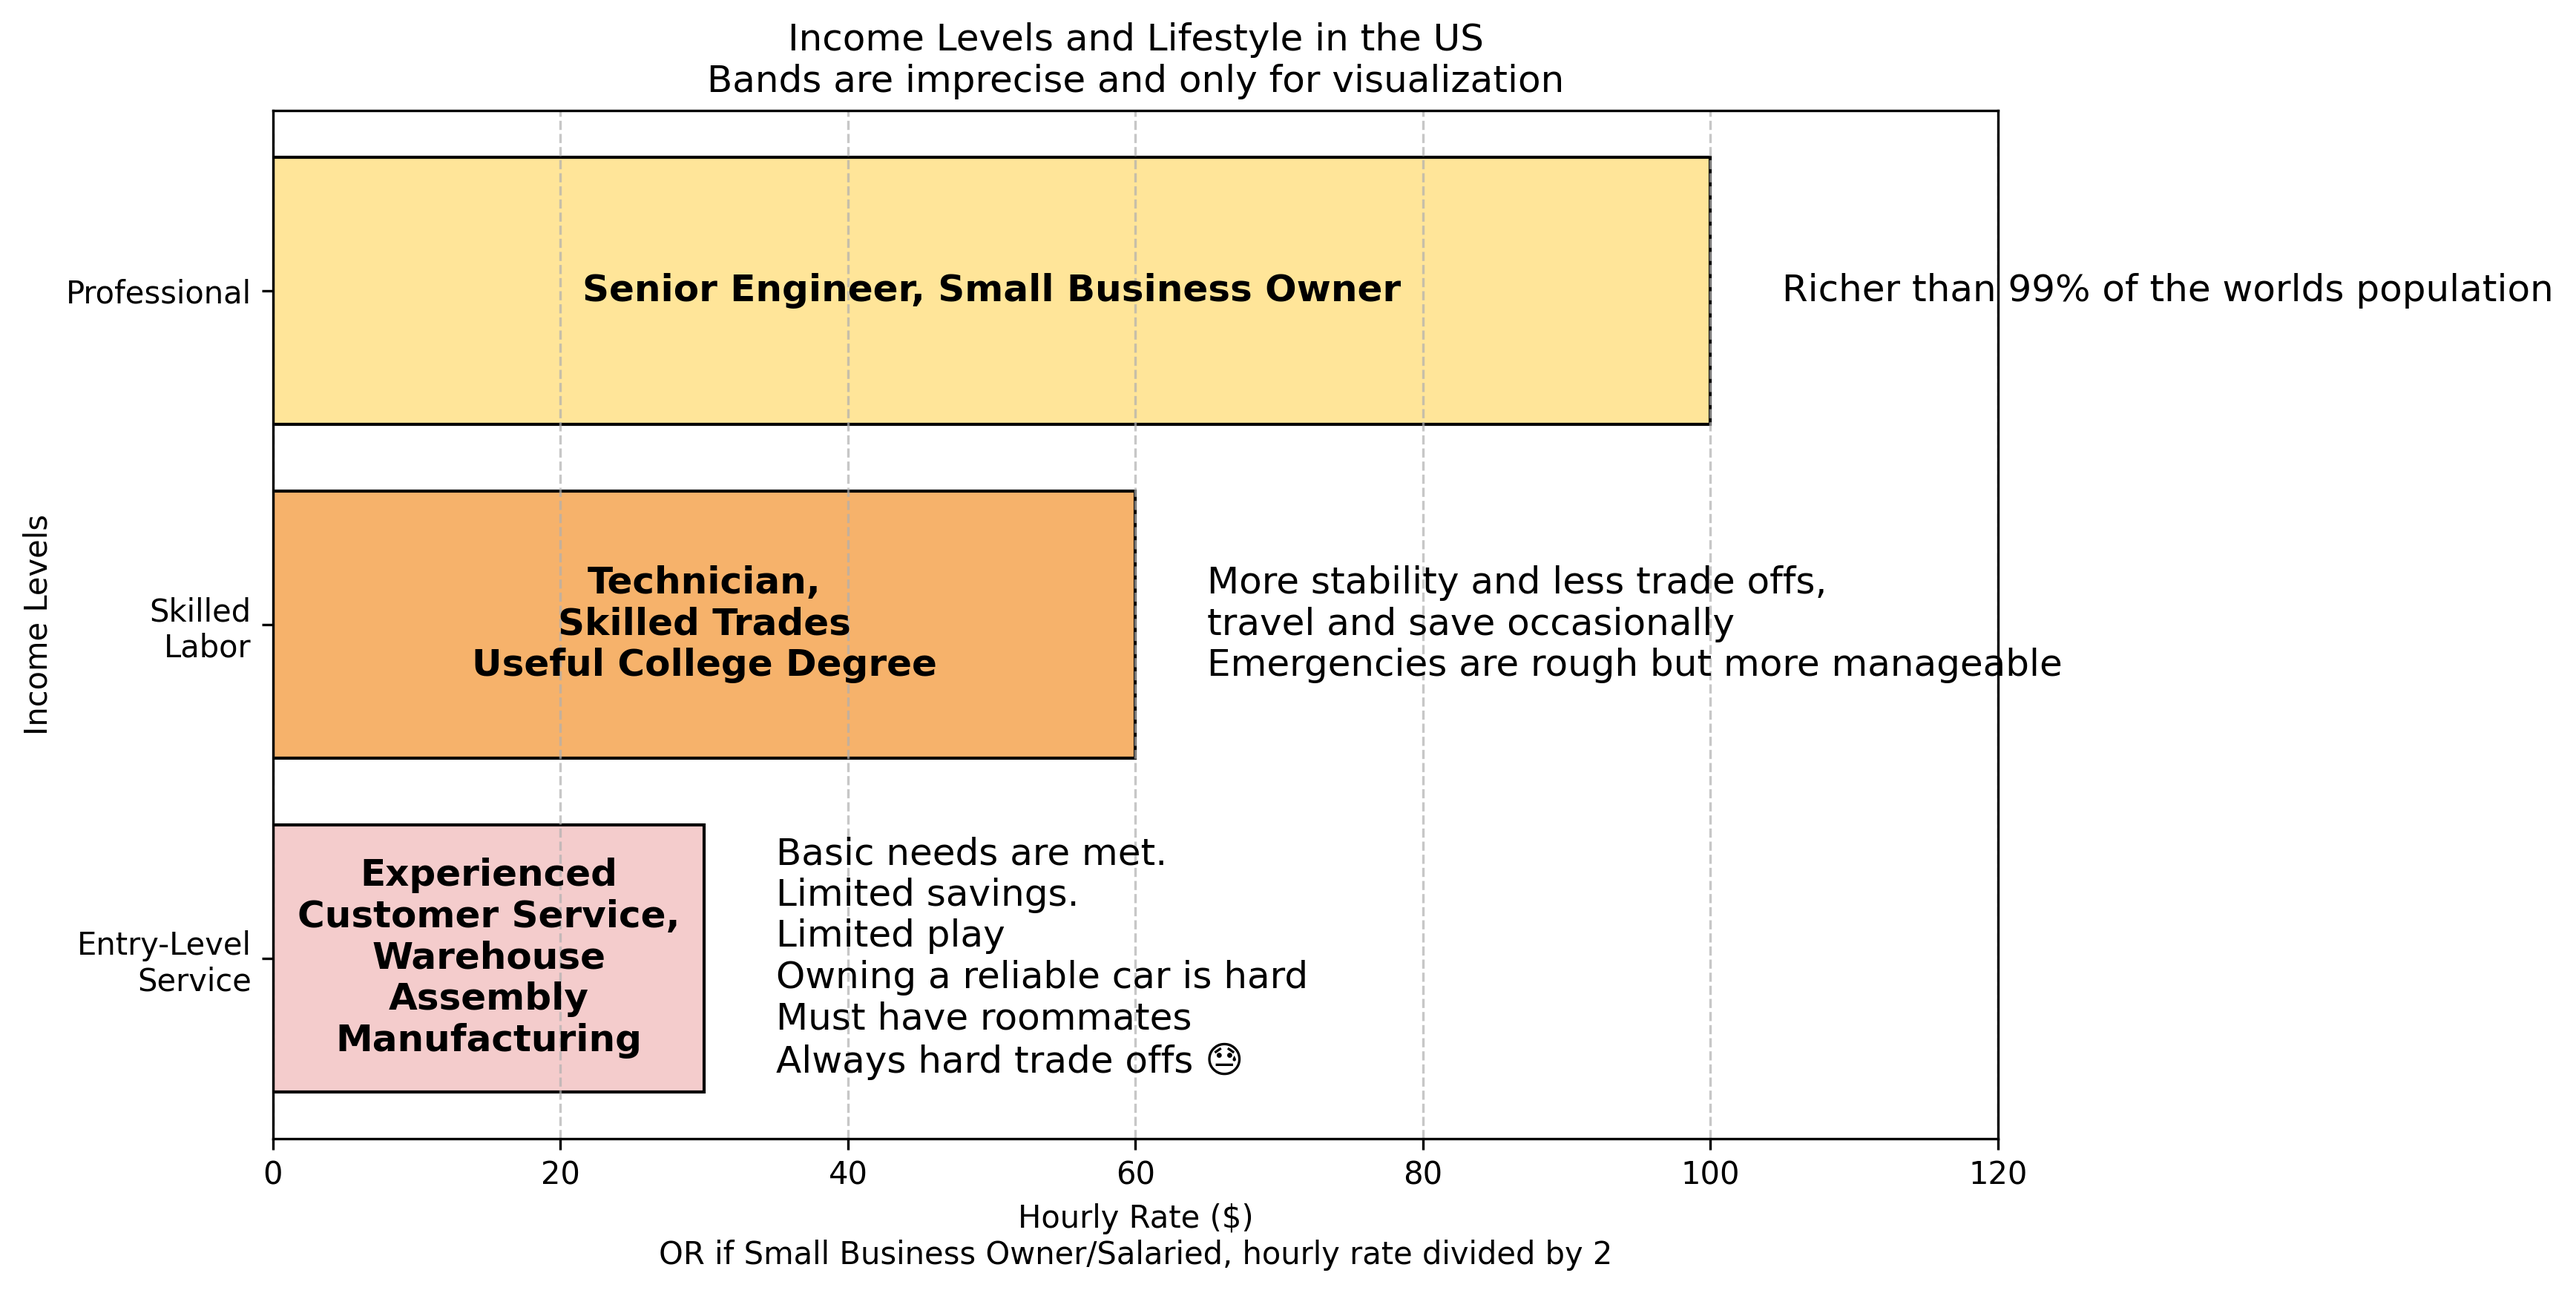
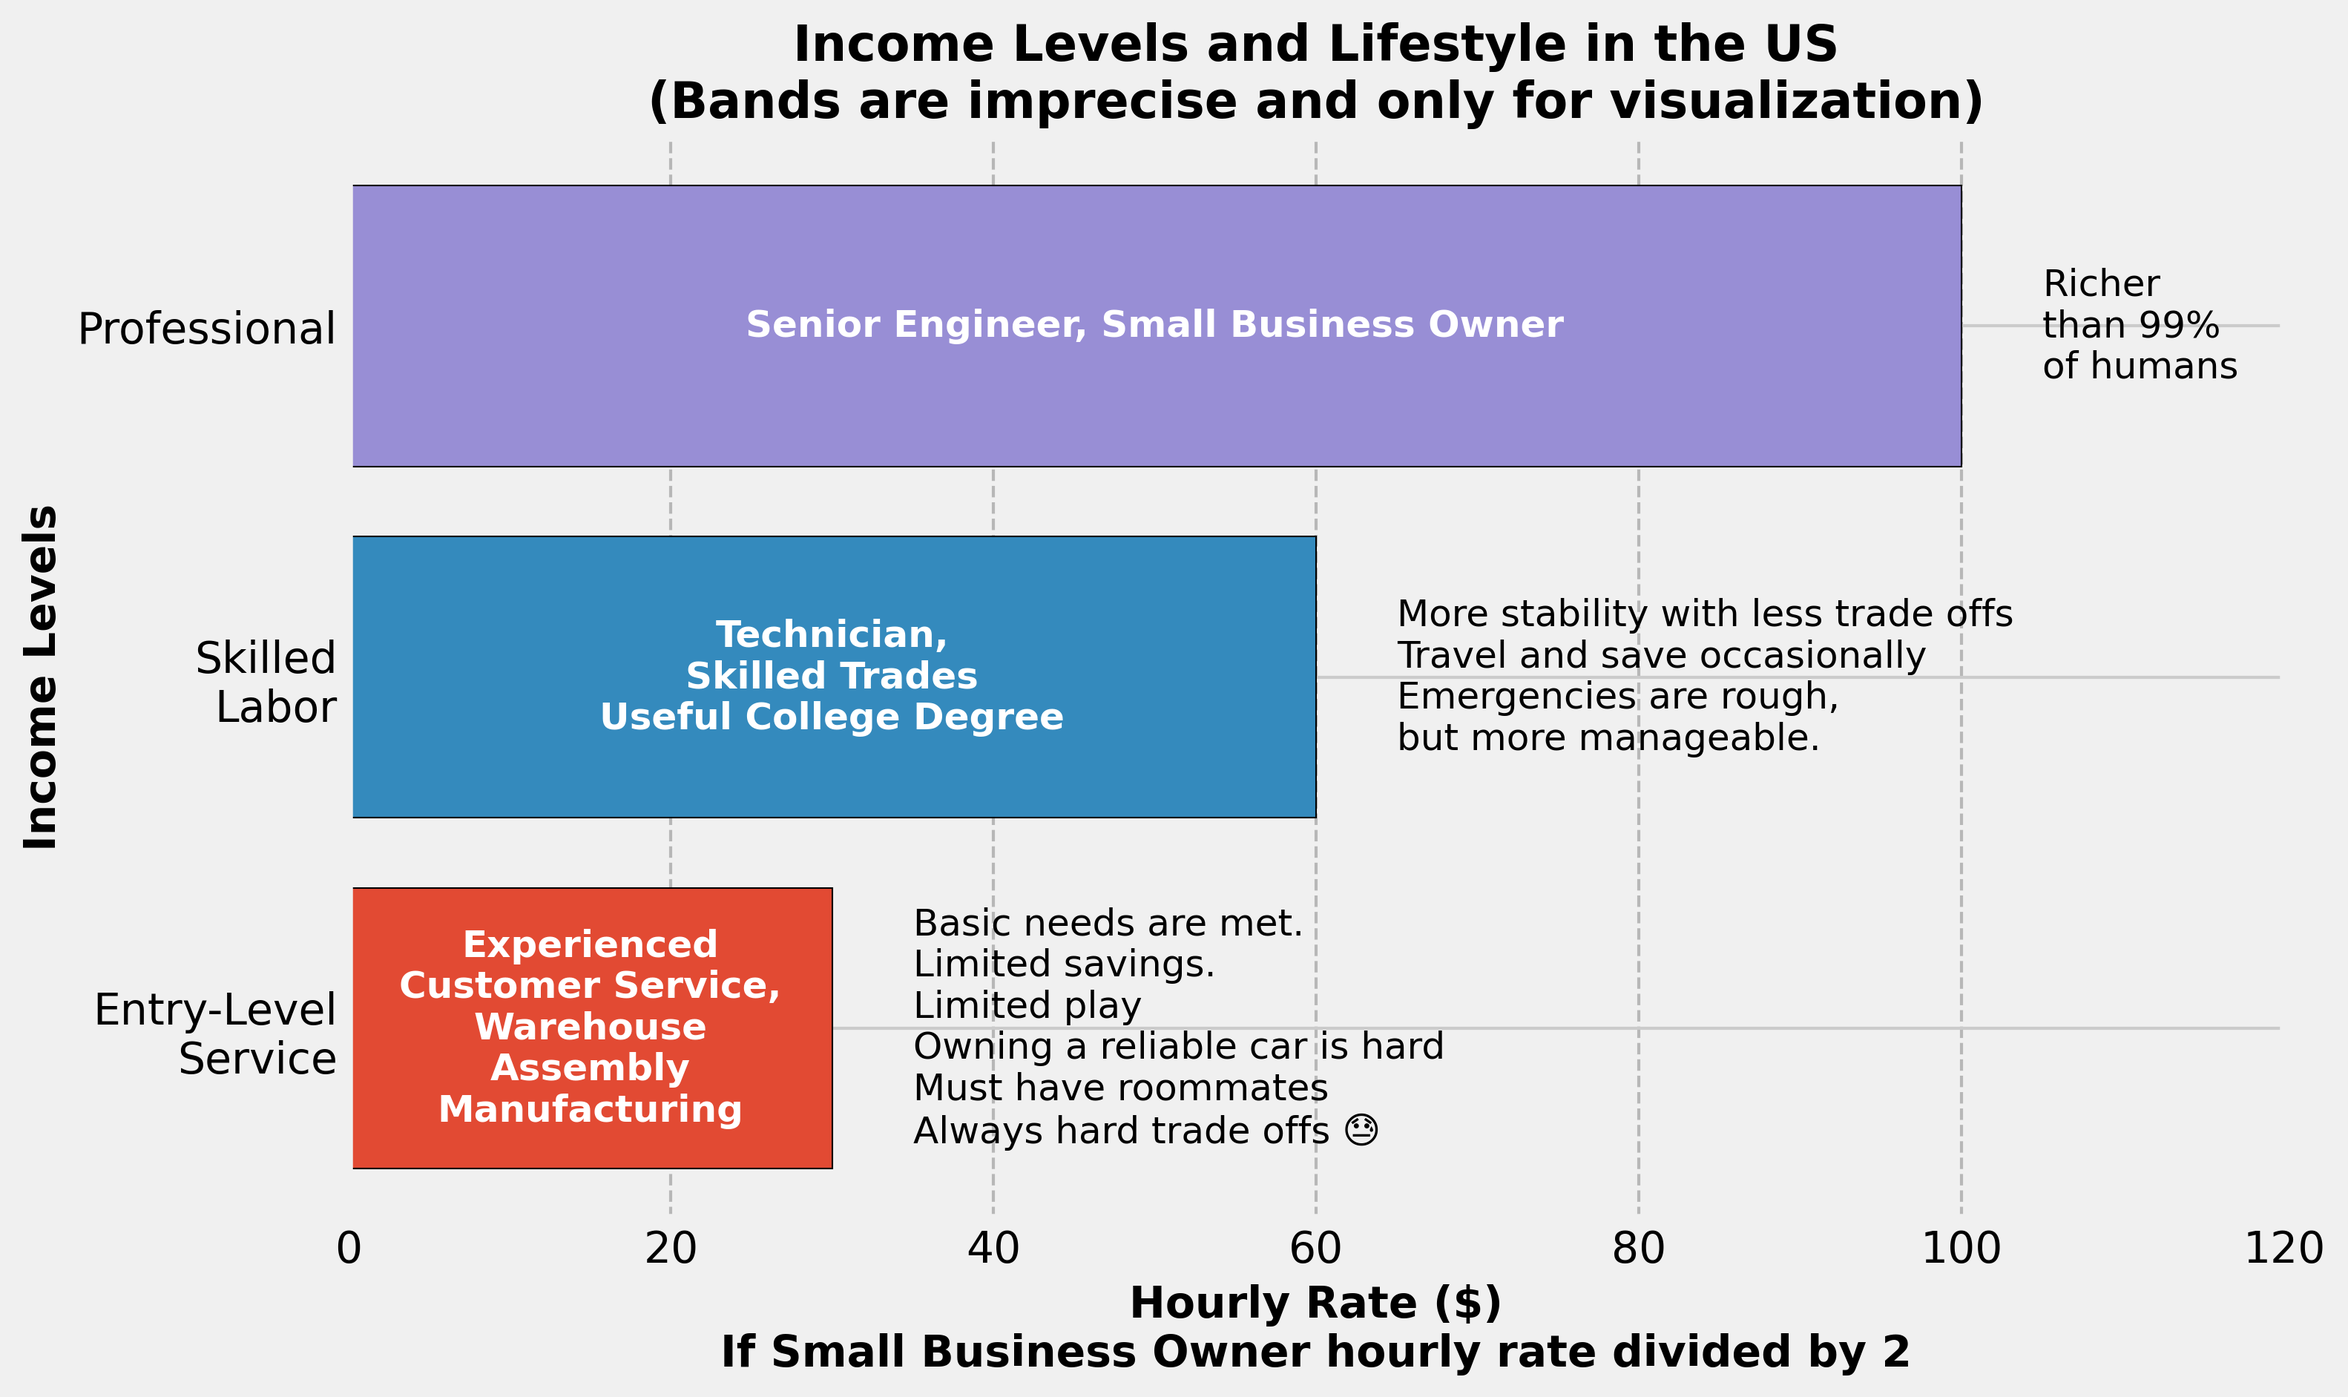
📊 Update 📈 2025-02-09 13:18:53 ✏

diff --git a/index.html b/index.html
@@ -1,47 +1,47 @@
 <!DOCTYPE html>
-<html lang="en">
-<head>
-    <meta charset="UTF-8">
-    <meta name="viewport" content="width=device-width, initial-scale=1.0">
-    <title>US Income Levels and Lifestyle Choices 2025</title>
-    <style>
-        body {
-            font-family: Arial, sans-serif;
-            text-align: center;
-            padding: 20px;
-            background-color: #f4f4f4;
-        }
-        img {
-            max-width: 100%;
-            height: auto;
-            border: 1px solid #ddd;
-            border-radius: 8px;
-            padding: 5px;
-            background: white;
-        }
-        .container {
-            max-width: 800px;
-            margin: auto;
-            background: white;
-            padding: 20px;
-            box-shadow: 0 0 10px rgba(0, 0, 0, 0.1);
-            border-radius: 8px;
-        }
-    </style>
-</head>
-<body>
-    <div class="container">
-        <h1>US Income Levels and Lifestyle Choices 2025</h1>
-        <img src="income_chart.png" alt="Income Chart">
-        <p>Disclaimer:
+    <html lang="en">
+    <head>
+        <meta charset="UTF-8">
+        <meta name="viewport" content="width=device-width, initial-scale=1.0">
+        <title>US Income Levels and Lifestyle Choices 2025</title>
+        <style>
+            body {
+                font-family: Arial, sans-serif;
+                text-align: center;
+                padding: 20px;
+                background-color: #f4f4f4;
+            }
+            img {
+                max-width: 100%;
+                height: auto;
+                border: 1px solid #ddd;
+                border-radius: 8px;
+                padding: 5px;
+                background: white;
+            }
+            .container {
+                max-width: 800px;
+                margin: auto;
+                background: white;
+                padding: 20px;
+                box-shadow: 0 0 10px rgba(0, 0, 0, 0.1);
+                border-radius: 8px;
+            }
+        </style>
+    </head>
+    <body>
+        <div class="container">
+            <h1>US Income Levels and Lifestyle Choices 2025</h1>
+            <img src="income_chart.png" alt="Income Chart">
+            <p>Disclaimer:
 This is a "Dad" picture, to help folks visualize the impact of income on lifestyle choices.
 This chart is a broad generalization and does not account for the many variables that can affect lifestyle choices, such as;
 location, family/family of origin, dependents, personal preferences, culture, religion, and economic conditions.
 </p>
-    </div>
-    <div class="container">
-    <h2>Other tools</h2>
-    <a href="https://www.givingwhatwecan.org/how-rich-am-i?income=100000&countryCode=USA&numAdults=1&numChildren=0" target="_blank" rel="noopener noreferrer">How Rich am I</a>
-    </div>
-</body>
-</html>
+        </div>
+        <div class="container">
+        <h2>Other tools</h2>
+        <a href="https://www.givingwhatwecan.org/how-rich-am-i?income=100000&countryCode=USA&numAdults=1&numChildren=0" target="_blank" rel="noopener noreferrer">How Rich am I</a>
+        </div>
+    </body>
+    </html>

diff --git a/zchart.py b/zchart.py
@@ -6,139 +6,163 @@
 # ]
 # ///
 
+from datetime import datetime
 import matplotlib.pyplot as plt
 import numpy as np
 
-# Update income bands to remove the highest level
-income_bands = [
-    (30, "Entry-Level\nService"),
-    (60, "Skilled\nLabor"),
-    (100, "Professional"),
-]
-
-# Update job examples and lifestyle descriptions accordingly
-job_labels = [
-    "Experienced\nCustomer Service,\nWarehouse\nAssembly\nManufacturing",
-    "Technician,\nSkilled Trades\nUseful College Degree",
-    "Senior Engineer, Small Business Owner",
-]
-
-lifestyle_labels = [
-    "Basic needs are met.\nLimited savings.\nLimited play\nOwning a reliable car is hard\nMust have roommates\nAlways hard trade offs 😓",
-    "More stability and less trade offs,\ntravel and save occasionally\nEmergencies are rough but more manageable",
-    "Richer than 99% of the worlds population"
-]
-
-# Adjust colors
-colors = ["#f4cccc", "#f6b26b", "#ffe599", "#6fa8dc"]
-
-fig, ax = plt.subplots(figsize=(10, 6))
-
-# Create bars for income bands
-y_positions = np.arange(len(income_bands))
-hourly_rates = [rate for rate, _ in income_bands]
-
-bars = ax.barh(y_positions, hourly_rates, color=colors, edgecolor="black")
-
-# Add job labels inside bars (adjust for better fit)
-for i, bar in enumerate(bars):
-    ax.text(
-        bar.get_width() * 0.5,
-        bar.get_y() + bar.get_height() / 2,
-        job_labels[i],
-        va="center",
-        ha="center",
-        fontsize=12,
-        color="black",
-        fontweight="bold",
-    )
-
-# Add lifestyle labels outside bars
-for i, (rate, label) in enumerate(income_bands):
-    ax.text(
-        rate + 5,
-        y_positions[i],
-        lifestyle_labels[i],
-        va="center",
-        ha="left",
-        fontsize=12,
-        color="black",
-    )
-
-# Labels and title
-ax.set_xlabel("Hourly Rate ($)\nOR if Small Business Owner/Salaried, hourly rate divided by 2")
-ax.set_ylabel("Income Levels")
-ax.set_title("Income Levels and Lifestyle in the US\nBands are imprecise and only for visualization")
-ax.set_yticks(y_positions)
-ax.set_yticklabels([label for _, label in income_bands])
-ax.set_xlim(0, 120)  # Adjust x-axis limit for better label fit
-ax.grid(axis="x", linestyle="--", alpha=0.7)
-
-# Save the figure
-plt.savefig("income_chart.png", dpi=300, bbox_inches="tight")
 
 disclaimer = """Disclaimer:
 This is a "Dad" picture, to help folks visualize the impact of income on lifestyle choices.
 This chart is a broad generalization and does not account for the many variables that can affect lifestyle choices, such as;
 location, family/family of origin, dependents, personal preferences, culture, religion, and economic conditions.
 """
-header = "US Income Levels and Lifestyle Choices 2025"
+year = datetime.now().year
+header = f"US Income Levels and Lifestyle Choices {year}"
 
-# Create README.md with embedded image
-with open("README.md", "w") as f:
-    f.write(f"""# {header}\n![Income Chart](income_chart.png)\n<https://y3rsh.github.io/income-chart/>\n{disclaimer}
-## Other tools
-- [How Rich am I](https://www.givingwhatwecan.org/how-rich-am-i?income=100000&countryCode=USA&numAdults=1&numChildren=0)
-""")
+def gen_image():
+    # Apply fivethirtyeight style
+    plt.style.use("fivethirtyeight")
 
-# Create an HTML page with embedded image
-html_content = f"""<!DOCTYPE html>
-<html lang=\"en\">
-<head>
-    <meta charset=\"UTF-8\">
-    <meta name=\"viewport\" content=\"width=device-width, initial-scale=1.0\">
-    <title>{header}</title>
-    <style>
-        body {{
-            font-family: Arial, sans-serif;
-            text-align: center;
-            padding: 20px;
-            background-color: #f4f4f4;
-        }}
-        img {{
-            max-width: 100%;
-            height: auto;
-            border: 1px solid #ddd;
-            border-radius: 8px;
-            padding: 5px;
-            background: white;
-        }}
-        .container {{
-            max-width: 800px;
-            margin: auto;
-            background: white;
-            padding: 20px;
-            box-shadow: 0 0 10px rgba(0, 0, 0, 0.1);
-            border-radius: 8px;
-        }}
-    </style>
-</head>
-<body>
-    <div class=\"container\">
-        <h1>{header}</h1>
-        <img src=\"income_chart.png\" alt=\"Income Chart\">
-        <p>{disclaimer}</p>
-    </div>
-    <div class=\"container\">
-    <h2>Other tools</h2>
-    <a href="https://www.givingwhatwecan.org/how-rich-am-i?income=100000&countryCode=USA&numAdults=1&numChildren=0" target="_blank" rel="noopener noreferrer">How Rich am I</a>
-    </div>
-</body>
-</html>"""
+    income_bands = [
+        (30, "Entry-Level\nService"),
+        (60, "Skilled\nLabor"),
+        (100, "Professional"),
+    ]
+
+    job_labels = [
+        "Experienced\nCustomer Service,\nWarehouse\nAssembly\nManufacturing",
+        "Technician,\nSkilled Trades\nUseful College Degree",
+        "Senior Engineer, Small Business Owner",
+    ]
+
+    lifestyle_labels = [
+        "Basic needs are met.\nLimited savings.\nLimited play\nOwning a reliable car is hard\nMust have roommates\nAlways hard trade offs 😓",
+        "More stability with less trade offs\nTravel and save occasionally\nEmergencies are rough,\nbut more manageable.",
+        "Richer\nthan 99%\nof humans",
+    ]
+
+    # Adjust colors to match fivethirtyeight aesthetic
+    colors = ["#E24A33", "#348ABD", "#988ED5"]  # Muted red, blue, and purple
+
+    fig, ax = plt.subplots(figsize=(10, 6))
+
+    # Create bars for income bands
+    y_positions = np.arange(len(income_bands))
+    hourly_rates = [rate for rate, _ in income_bands]
+
+    bars = ax.barh(y_positions, hourly_rates, color=colors, edgecolor="black")
+
+    # Add job labels inside bars (adjusted for better readability)
+    for i, bar in enumerate(bars):
+        ax.text(
+            bar.get_width() * 0.5,
+            bar.get_y() + bar.get_height() / 2,
+            job_labels[i],
+            va="center",
+            ha="center",
+            fontsize=12,
+            color="white",
+            fontweight="bold",
+        )
+
+    # Add lifestyle labels to the right of the bars
+    for i, (rate, label) in enumerate(income_bands):
+        ax.text(
+            rate + 5,  # Offset for better readability
+            y_positions[i],
+            lifestyle_labels[i],
+            va="center",
+            ha="left",
+            fontsize=12,
+            color="black",
+        )
+
+    # Set labels and title
+    ax.set_xlabel(
+        "Hourly Rate ($)\nIf Small Business Owner hourly rate divided by 2",
+        fontsize=14,
+        fontweight="bold",
+    )
+    ax.set_ylabel("Income Levels", fontsize=14, fontweight="bold")
+    ax.set_title(
+        "Income Levels and Lifestyle in the US\n(Bands are imprecise and only for visualization)",
+        fontsize=16,
+        fontweight="bold",
+    )
+
+    # Set y-axis labels
+    ax.set_yticks(y_positions)
+    ax.set_yticklabels([label for _, label in income_bands])
+
+    # Set x-axis limits for better spacing
+    ax.set_xlim(0, 120)
+
+    # Improve grid styling
+    ax.grid(axis="x", linestyle="--", alpha=0.5, color="gray")
+
+    return plt
+
+def gen_readme():
+    with open("README.md", "w") as f:
+        f.write(
+            f"""# {header}\n![Income Chart](income_chart.png)\n<https://y3rsh.github.io/income-chart/>\n{disclaimer}
+    ## Other tools
+    - [How Rich am I](https://www.givingwhatwecan.org/how-rich-am-i?income=100000&countryCode=USA&numAdults=1&numChildren=0)
+    """
+        )
+    print("README file generated successfully.")
+
+def gen_html():
+    html_content = f"""<!DOCTYPE html>
+    <html lang=\"en\">
+    <head>
+        <meta charset=\"UTF-8\">
+        <meta name=\"viewport\" content=\"width=device-width, initial-scale=1.0\">
+        <title>{header}</title>
+        <style>
+            body {{
+                font-family: Arial, sans-serif;
+                text-align: center;
+                padding: 20px;
+                background-color: #f4f4f4;
+            }}
+            img {{
+                max-width: 100%;
+                height: auto;
+                border: 1px solid #ddd;
+                border-radius: 8px;
+                padding: 5px;
+                background: white;
+            }}
+            .container {{
+                max-width: 800px;
+                margin: auto;
+                background: white;
+                padding: 20px;
+                box-shadow: 0 0 10px rgba(0, 0, 0, 0.1);
+                border-radius: 8px;
+            }}
+        </style>
+    </head>
+    <body>
+        <div class=\"container\">
+            <h1>{header}</h1>
+            <img src=\"income_chart.png\" alt=\"Income Chart\">
+            <p>{disclaimer}</p>
+        </div>
+        <div class=\"container\">
+        <h2>Other tools</h2>
+        <a href="https://www.givingwhatwecan.org/how-rich-am-i?income=100000&countryCode=USA&numAdults=1&numChildren=0" target="_blank" rel="noopener noreferrer">How Rich am I</a>
+        </div>
+    </body>
+    </html>"""
+    with open("index.html", "w") as f:
+        f.write(html_content)
+    print("HTML file generated successfully.")
 
 
-# Save the HTML file
-with open("index.html", "w") as f:
-    f.write(html_content)
-
-print("Files generated: income_chart.png, README.md, index.html")
+if __name__ == "__main__":
+    fig = gen_image()
+    fig.savefig("income_chart.png", dpi=300, bbox_inches="tight")
+    gen_readme()
+    gen_html()

diff --git a/README.md b/README.md
@@ -6,5 +6,6 @@ This is a "Dad" picture, to help folks visualize the impact of income on lifesty
 This chart is a broad generalization and does not account for the many variables that can affect lifestyle choices, such as;
 location, family/family of origin, dependents, personal preferences, culture, religion, and economic conditions.
 
-## Other tools
-- [How Rich am I](https://www.givingwhatwecan.org/how-rich-am-i?income=100000&countryCode=USA&numAdults=1&numChildren=0)
+    ## Other tools
+    - [How Rich am I](https://www.givingwhatwecan.org/how-rich-am-i?income=100000&countryCode=USA&numAdults=1&numChildren=0)
+    
